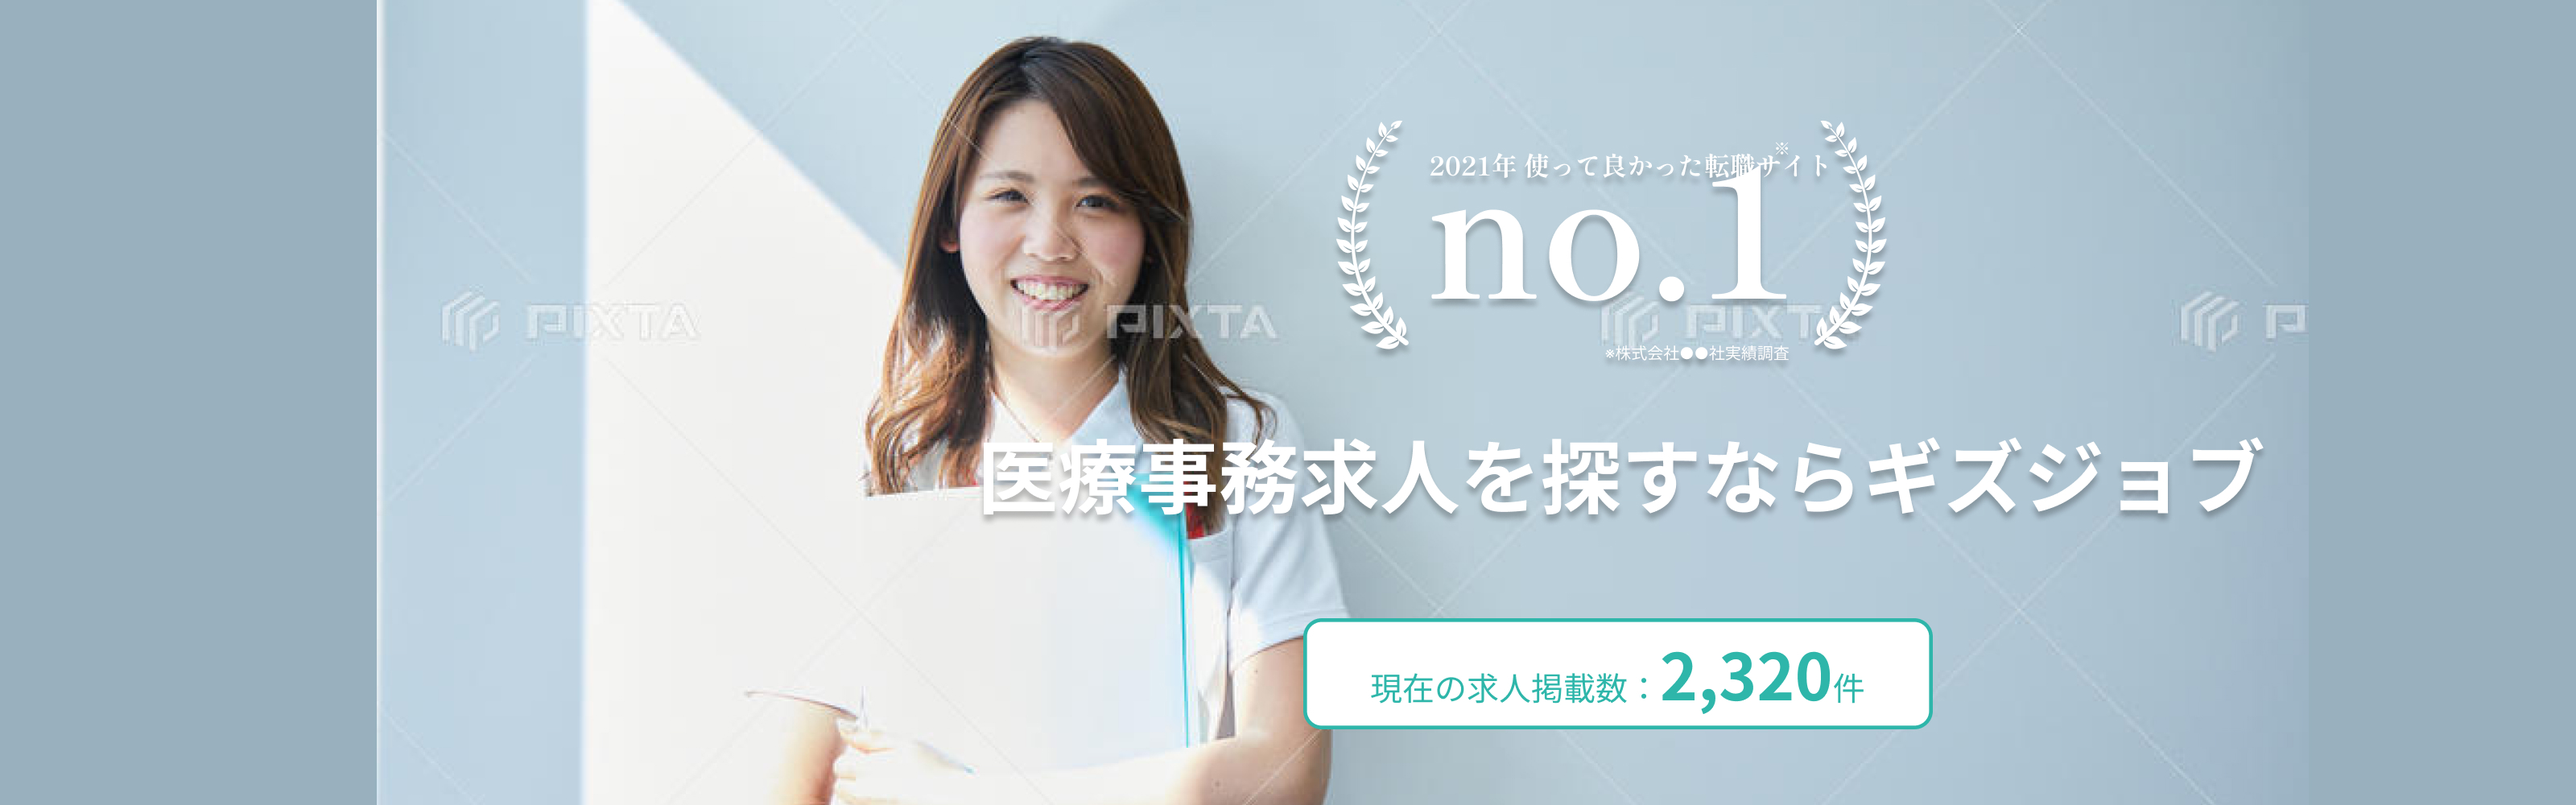
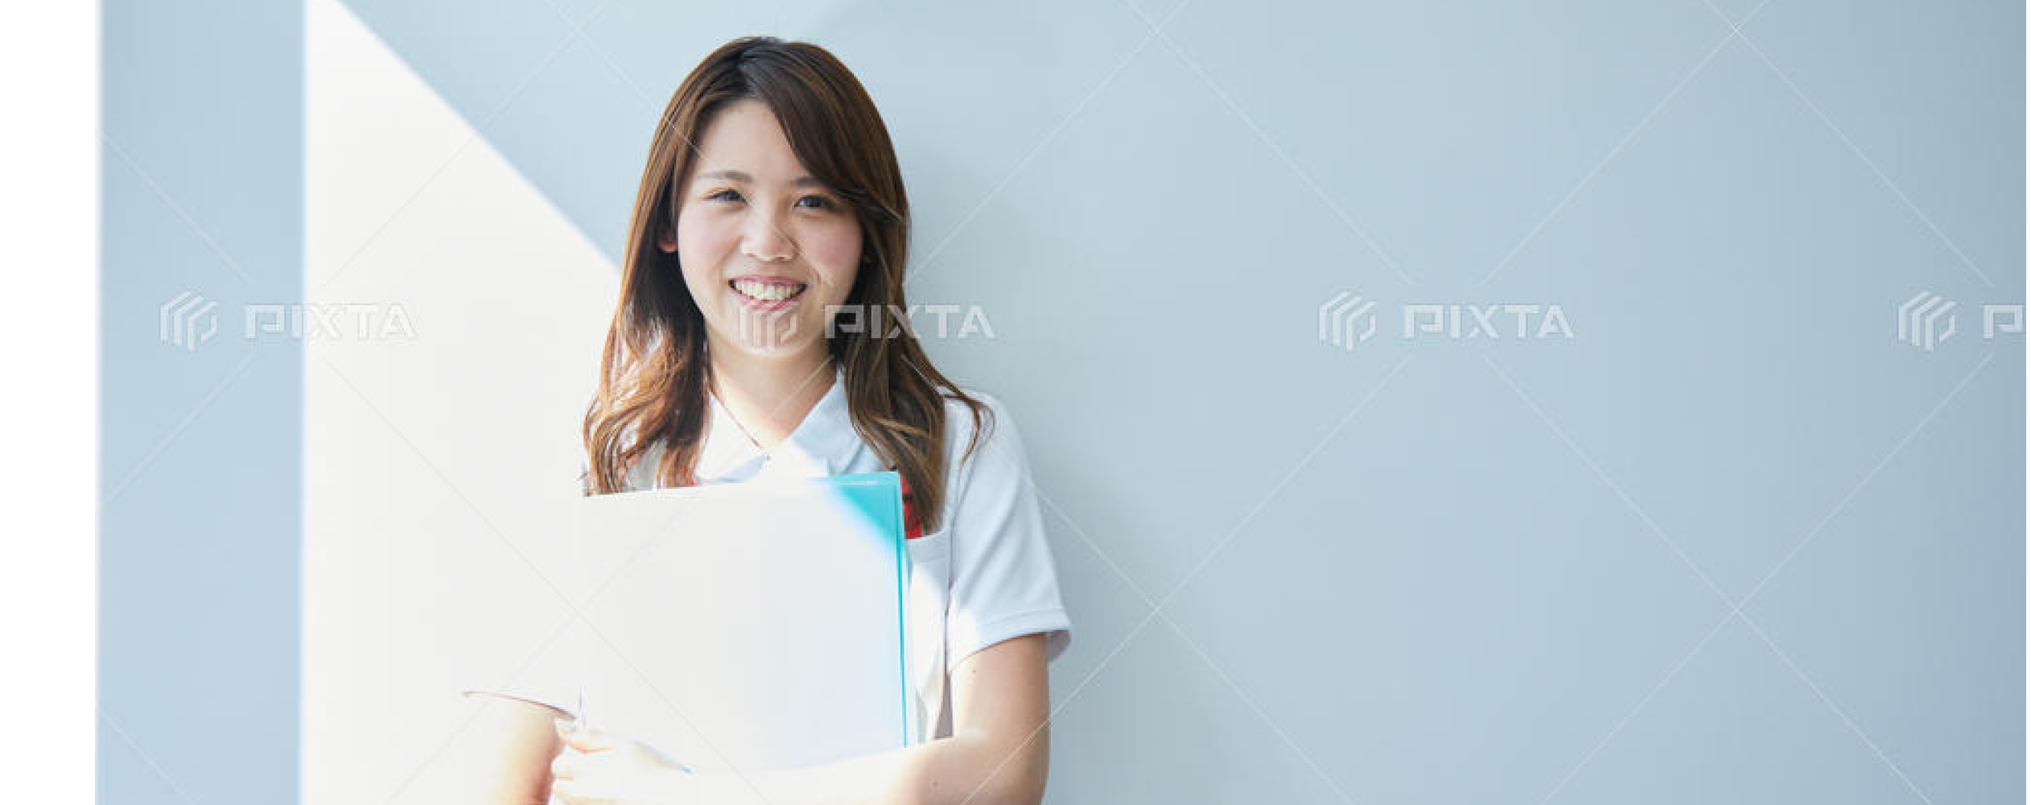
fix:キービジュアル部分の修正

diff --git a/src/css/object/project/keyvisual.scss b/src/css/object/project/keyvisual.scss
@@ -1,2 +1,59 @@
 @use '../../object/utility/utility.scss';
+
 // ページ上部のキービジュアルに関するスタイル
+.p-keyvisual {
+  background-color: utility.$bgKeyVisual;
+
+  &__container {
+    width: 1262px;
+    height: 500px;
+    position: relative;
+    left: 50%;
+    transform: translate(-50%);
+
+    &__no1 {
+      position: absolute;
+      width: 342px;
+      z-index: 15;
+      top: 56px;
+      left: 655px;
+    }
+
+    &__textbox {
+      position: absolute;
+      z-index: 16;
+      top: 265px;
+      left: 432px;
+      text-align: center;
+
+      &__headline {
+        color: utility.$white;
+        text-shadow: 0px 4px 4px rgba(0, 0, 0, 0.25);
+        font-family: DM Sans;
+        font-size: 50px;
+        font-style: normal;
+        font-weight: utility.$bold;
+        line-height: normal;
+      }
+
+      &__text {
+        color: utility.$keyGreen;
+        font-family: Noto Sans JP;
+        font-size: 20px;
+        font-style: normal;
+        font-weight: utility.$regular;
+        line-height: normal;
+        background-color: utility.$white;
+        width: 391px;
+        margin: 55px auto 0 auto;
+        border-radius: 10px;
+        border: 2px solid utility.$keyGreen;
+
+        span {
+          font-size: 40px;
+          font-weight: utility.$bold;
+        }
+      }
+    }
+  }
+}

diff --git a/src/index.html b/src/index.html
@@ -34,7 +34,17 @@
   </header>
 
   <main>
-    <img src="img/picture/keyvisual.jpg" alt="">
+    <div class="p-keyvisual">
+      <div class="p-keyvisual__container">
+        <img class="p-keyvisual__container__img" src="img/icon/keyvisual.png" alt="">
+        <img class="p-keyvisual__container__no1" src="img/icon/no1.png" alt="">
+        <div class="p-keyvisual__container__textbox">
+          <p class="p-keyvisual__container__textbox__headline">医療事務求人を探すならギズジョブ</p>
+          <p class="p-keyvisual__container__textbox__text">現在の求人掲載数：<span>2,320</span>件</p>
+        </div>
+      </div>
+    </div>
+
     <article class="l-inner p-searcharticle">
       <h1 class="p-searcharticle__headline">お仕事検索</h1>
       <p class="p-searcharticle__text">働きたい職種・地域・希望給与を入れて検索！</p>

diff --git a/src/css/foundation/_variables.scss b/src/css/foundation/_variables.scss
@@ -11,6 +11,8 @@ $placeGlay: #A4A4A4;
 $cardSkin: #FFCAD0;
 $gizPink: #DE5579;
 $bgGizPink: #F7D2DB;
+$bgKeyVisual: #98B1BE;
+$keyGreen: #2EB6AA;
 
 // フォントの太さ
 $regular: 400;
